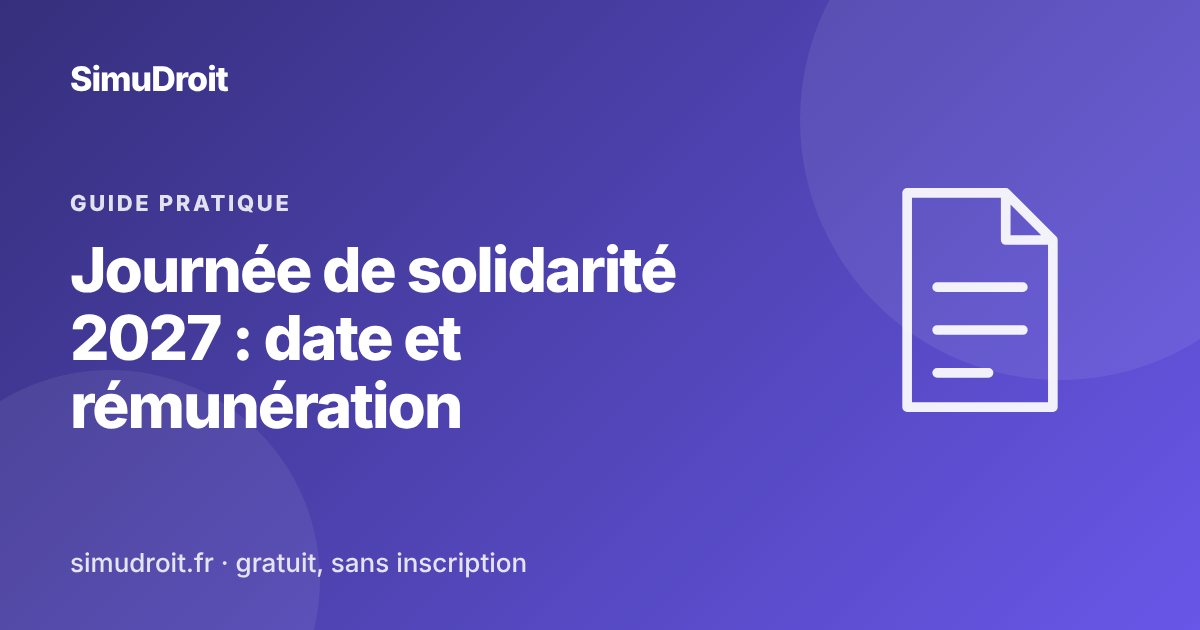
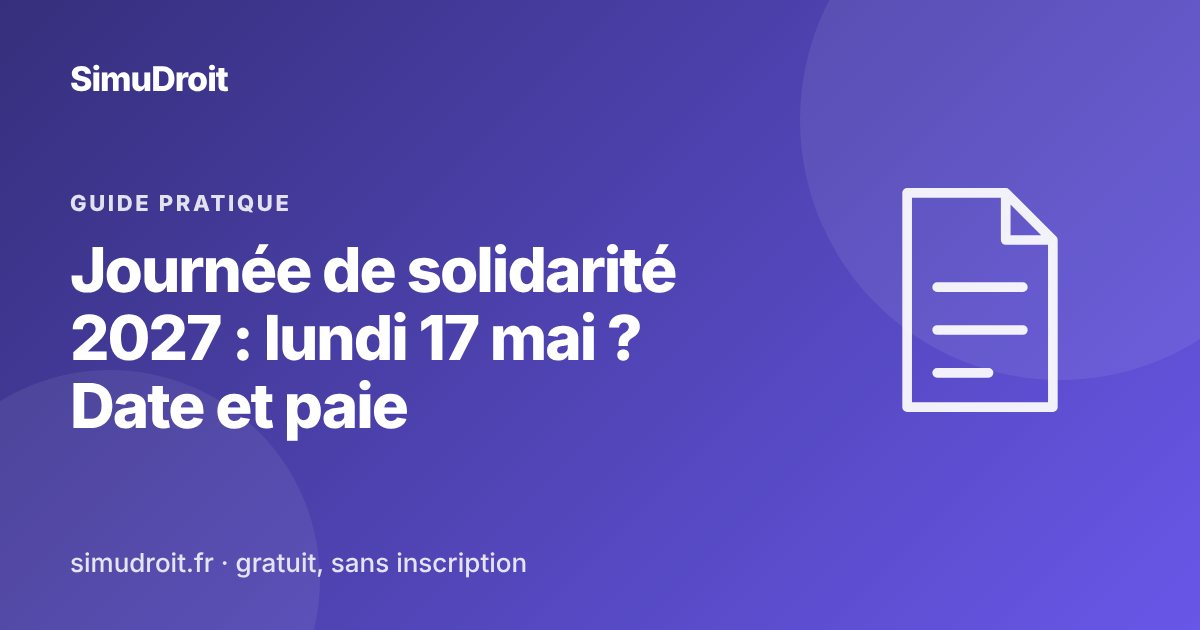
SEO : titres du guide journée de solidarité 2027 et du simulateur point d'indice (données Search Console du 4 nov.)
Claude-Session: https://claude.ai/code/session_01MGK9sqPbED2oii747MBsrw

Changed region(s): [[0.0617, 0.6032, 0.4008, 0.6937], [0.2158, 0.4825, 0.555, 0.573]]

diff --git a/guides/journee-de-solidarite-2027-date-regles-remuneration/index.html b/guides/journee-de-solidarite-2027-date-regles-remuneration/index.html
@@ -3,19 +3,19 @@
 <head>
   <meta charset="UTF-8">
   <meta name="viewport" content="width=device-width, initial-scale=1.0">
-  <title>Journée de solidarité 2027 : date et rémunération | SimuDroit</title>
+  <title>Journée de solidarité 2027 : lundi 17 mai ? Date et paie | SimuDroit</title>
   <meta name="description" content="Journée de solidarité 2027 : lundi de Pentecôte le 17 mai, 7 heures non rémunérées, temps partiel et changement d&#x27;employeur, d&#x27;après le Code du travail.">
   <meta name="robots" content="index, follow, max-image-preview:large, max-snippet:-1, max-video-preview:-1">
   <link rel="canonical" href="https://simudroit.fr/guides/journee-de-solidarite-2027-date-regles-remuneration/">
   <meta property="og:type" content="article">
-  <meta property="og:title" content="Journée de solidarité 2027 : date et rémunération | SimuDroit">
+  <meta property="og:title" content="Journée de solidarité 2027 : lundi 17 mai ? Date et paie | SimuDroit">
   <meta property="og:description" content="Journée de solidarité 2027 : lundi de Pentecôte le 17 mai, 7 heures non rémunérées, temps partiel et changement d&#x27;employeur, d&#x27;après le Code du travail.">
   <meta property="og:url" content="https://simudroit.fr/guides/journee-de-solidarite-2027-date-regles-remuneration/">
   <meta property="og:site_name" content="SimuDroit">
   <meta property="og:locale" content="fr_FR">
   <meta property="og:image" content="https://simudroit.fr/assets/og/guides-journee-de-solidarite-2027-date-regles-remuneration.jpg">
   <meta name="twitter:card" content="summary_large_image">
-  <meta name="twitter:title" content="Journée de solidarité 2027 : date et rémunération | SimuDroit">
+  <meta name="twitter:title" content="Journée de solidarité 2027 : lundi 17 mai ? Date et paie | SimuDroit">
   <meta name="twitter:description" content="Journée de solidarité 2027 : lundi de Pentecôte le 17 mai, 7 heures non rémunérées, temps partiel et changement d&#x27;employeur, d&#x27;après le Code du travail.">
   <meta name="twitter:image" content="https://simudroit.fr/assets/og/guides-journee-de-solidarite-2027-date-regles-remuneration.jpg">
   <link rel="icon" href="https://simudroit.fr/favicon.svg" type="image/svg+xml">
@@ -23,12 +23,12 @@
   <link rel="icon" href="https://simudroit.fr/favicon-48.png" type="image/png" sizes="48x48">
   <link rel="apple-touch-icon" href="https://simudroit.fr/apple-touch-icon.png">
   <link rel="stylesheet" href="/assets/simulateur.css">
-  <script type="application/ld+json">{"@context": "https://schema.org", "@type": "WebPage", "name": "Journée de solidarité 2027 : date et rémunération | SimuDroit", "url": "https://simudroit.fr/guides/journee-de-solidarite-2027-date-regles-remuneration/", "description": "Journée de solidarité 2027 : lundi de Pentecôte le 17 mai, 7 heures non rémunérées, temps partiel et changement d'employeur, d'après le Code du travail.", "inLanguage": "fr-FR", "dateModified": "2026-10-30"}</script>
+  <script type="application/ld+json">{"@context": "https://schema.org", "@type": "WebPage", "name": "Journée de solidarité 2027 : lundi 17 mai ? Date et paie | SimuDroit", "url": "https://simudroit.fr/guides/journee-de-solidarite-2027-date-regles-remuneration/", "description": "Journée de solidarité 2027 : lundi de Pentecôte le 17 mai, 7 heures non rémunérées, temps partiel et changement d'employeur, d'après le Code du travail.", "inLanguage": "fr-FR", "dateModified": "2026-10-30"}</script>
 <script type="application/ld+json">{"@context": "https://schema.org", "@type": "BreadcrumbList", "itemListElement": [{"@type": "ListItem", "position": 1, "name": "Accueil", "item": "https://simudroit.fr/"}, {"@type": "ListItem", "position": 2, "name": "Guides pratiques", "item": "https://simudroit.fr/guides/"}, {"@type": "ListItem", "position": 3, "name": "Journée de solidarité 2027 : date, rémunération et règles", "item": "https://simudroit.fr/guides/journee-de-solidarite-2027-date-regles-remuneration/"}]}</script>
 <script type="application/ld+json">{"@context": "https://schema.org", "@type": "FAQPage", "mainEntity": [{"@type": "Question", "name": "Quelle est la date de la journée de solidarité en 2027 ?", "acceptedAnswer": {"@type": "Answer", "text": "Elle n'a pas de date nationale obligatoire. Le lundi de Pentecôte, souvent retenu, tombe le 17 mai 2027, mais votre employeur peut en choisir un autre selon l'accord collectif applicable."}}, {"@type": "Question", "name": "La journée de solidarité est-elle payée ?", "acceptedAnswer": {"@type": "Answer", "text": "Non : dans la limite de 7 heures pour un salarié mensualisé, le travail accompli n'est pas rémunéré (article L3133-8 du Code du travail)."}}, {"@type": "Question", "name": "Comment se calcule la journée de solidarité à temps partiel ?", "acceptedAnswer": {"@type": "Answer", "text": "La durée de 7 heures est réduite proportionnellement à la durée contractuelle de travail."}}, {"@type": "Question", "name": "Peut-on refuser la journée de solidarité ?", "acceptedAnswer": {"@type": "Answer", "text": "Pas dans le cas général. Seul le salarié qui a déjà accompli une journée de solidarité dans l'année et à qui on en demande une nouvelle après un changement d'employeur peut la refuser, sans faute ni licenciement possible."}}, {"@type": "Question", "name": "La journée de solidarité compte-t-elle comme des heures supplémentaires ?", "acceptedAnswer": {"@type": "Answer", "text": "Non, dans la limite de 7 heures (ou de la durée proportionnelle à temps partiel) : elle ne s'impute ni sur le contingent d'heures supplémentaires ni sur les heures complémentaires."}}]}</script>
 <meta name="theme-color" content="#201e48">
   <meta name="author" content="SimuDroit">
-  <meta property="og:image:alt" content="Journée de solidarité 2027 : date et rémunération | SimuDroit">
+  <meta property="og:image:alt" content="Journée de solidarité 2027 : lundi 17 mai ? Date et paie | SimuDroit">
   <link rel="alternate" hreflang="fr" href="https://simudroit.fr/guides/journee-de-solidarite-2027-date-regles-remuneration/">
   <link rel="alternate" hreflang="x-default" href="https://simudroit.fr/guides/journee-de-solidarite-2027-date-regles-remuneration/">
   <!-- Mesure d'audience Plausible : sans cookie, données anonymes -->

diff --git a/simulateur-point-indice/index.html b/simulateur-point-indice/index.html
@@ -4,7 +4,7 @@
   <meta charset="UTF-8">
   <meta name="viewport" content="width=device-width, initial-scale=1.0">
 
-  <title>Point d&#x27;indice 2026 : calcul du traitement et du net</title>
+  <title>Valeur du point d&#x27;indice 2026 : 4,92 € par mois et calcul du net</title>
   <meta name="description" content="Calculez le traitement d&#x27;un fonctionnaire à partir de son indice majoré : valeur du point d&#x27;indice, brut, net estimé, supplément familial.">
   <meta name="robots" content="index, follow, max-image-preview:large, max-snippet:-1, max-video-preview:-1">
   <link rel="canonical" href="https://simudroit.fr/simulateur-point-indice/">
@@ -14,7 +14,7 @@
   <link rel="apple-touch-icon" href="https://simudroit.fr/apple-touch-icon.png">
 
   <meta property="og:type" content="website">
-  <meta property="og:title" content="Point d&#x27;indice 2026 : calcul du traitement et du net">
+  <meta property="og:title" content="Valeur du point d&#x27;indice 2026 : 4,92 € par mois et calcul du net">
   <meta property="og:description" content="Calculez le traitement d&#x27;un fonctionnaire à partir de son indice majoré : valeur du point d&#x27;indice, brut, net estimé, supplément familial.">
   <meta property="og:url" content="https://simudroit.fr/simulateur-point-indice/">
   <meta property="og:image" content="https://simudroit.fr/assets/og/simulateur-point-indice.jpg">
@@ -25,7 +25,7 @@
 
   <meta name="twitter:card" content="summary_large_image">
   <meta name="twitter:image" content="https://simudroit.fr/assets/og/simulateur-point-indice.jpg">
-  <meta name="twitter:title" content="Point d&#x27;indice 2026 : calcul du traitement et du net">
+  <meta name="twitter:title" content="Valeur du point d&#x27;indice 2026 : 4,92 € par mois et calcul du net">
   <meta name="twitter:description" content="Calculez le traitement d&#x27;un fonctionnaire à partir de son indice majoré : valeur du point d&#x27;indice, brut, net estimé, supplément familial.">
 
   <style>
@@ -349,7 +349,7 @@
   </script>
   <meta name="theme-color" content="#201e48">
   <meta name="author" content="SimuDroit">
-  <meta property="og:image:alt" content="Point d&#x27;indice 2026 : calcul du traitement et du net | SimuDroit">
+  <meta property="og:image:alt" content="Valeur du point d&#x27;indice 2026 : 4,92 € par mois et calcul du net | SimuDroit">
   <link rel="alternate" hreflang="fr" href="https://simudroit.fr/simulateur-point-indice/">
   <link rel="alternate" hreflang="x-default" href="https://simudroit.fr/simulateur-point-indice/">
   <!-- Mesure d'audience Plausible : sans cookie, données anonymes -->
